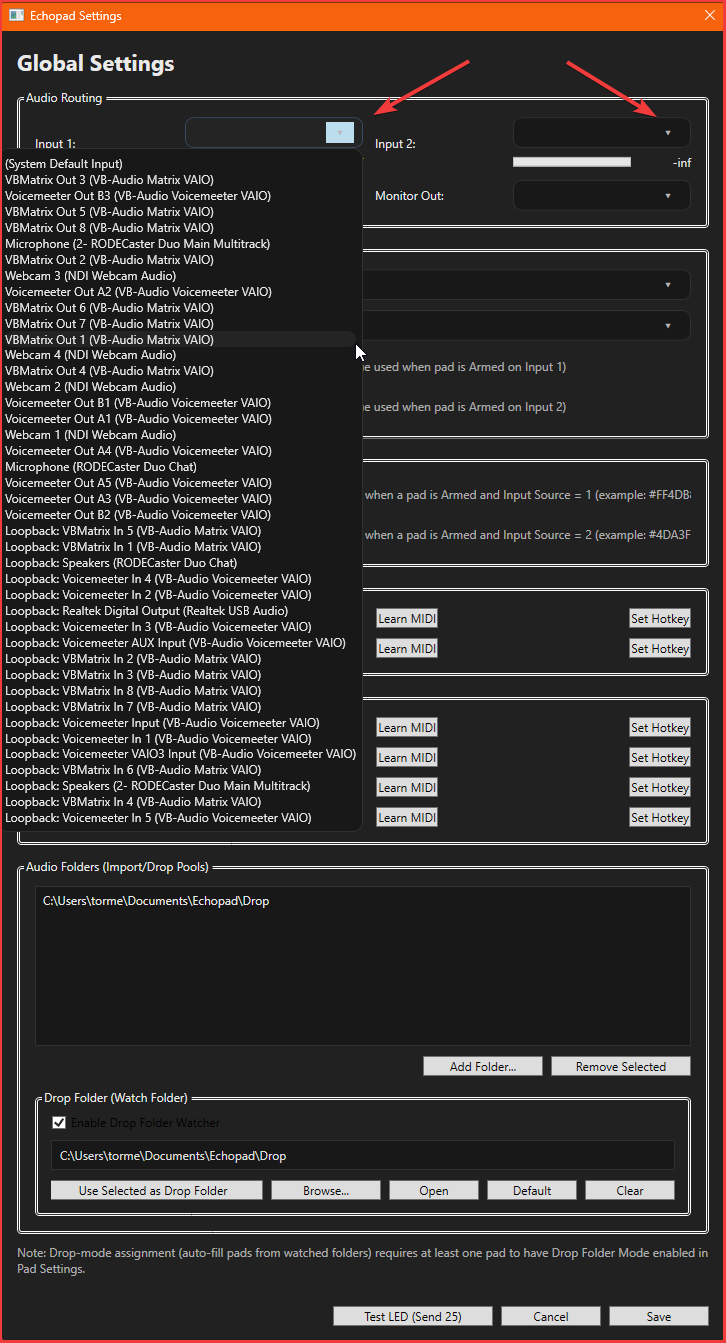
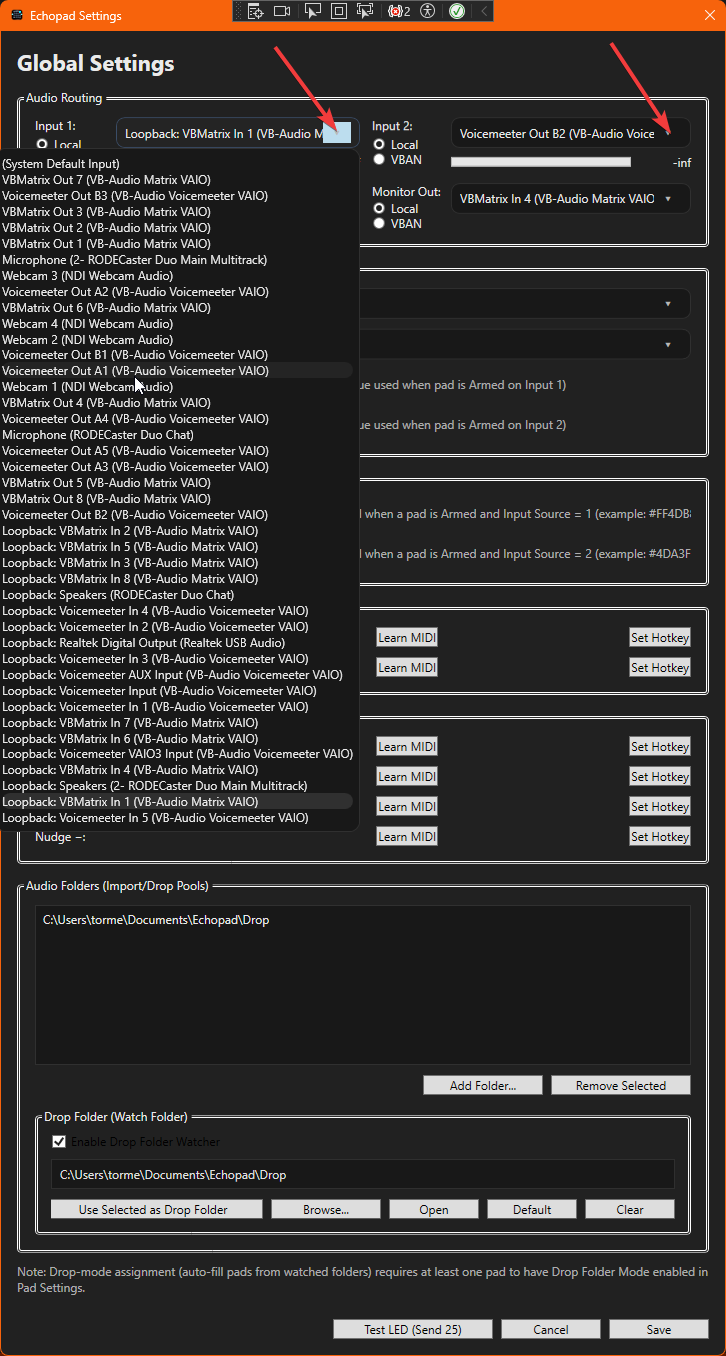
updated readme and setup

diff --git a/docs/SETUP.md b/docs/SETUP.md
@@ -1,6 +1,6 @@
 # 🛠 Echopad – Setup & Usage Guide
 
-This guide covers first-time setup, per-pad configuration, and everyday usage.
+This guide covers first-time setup, per-pad configuration, and everyday usage — including **local audio** and **VBAN (network audio)** routing.
 
 Follow the steps in order.
 
@@ -10,32 +10,157 @@ Follow the steps in order.
 
 Open **Settings → Audio**.
 
-### Audio Inputs
+Echopad supports **per-channel audio routing**, allowing each input, output, and monitor path to be switched independently between:
 
-![Audio input setup](images/setup-audio-input.png)
+- **Local** (WASAPI devices)
+- **VBAN** (UDP network audio)
 
-- **Input 1** – primary live capture source
-- **Input 2** – secondary live capture source
-
-These inputs are used by Echo Mode and per-pad routing.
+This makes it possible to mix and match local and network audio freely.
 
 ---
 
-### Main Output
+## 🔀 Audio Inputs – Local vs VBAN
+
+### Input Audio Mode Switch
+
+![Input audio VBAN switch](images/new-input-audio-vband-switch.png)
+
+Each input (Input 1 and Input 2) has a **mode selector** directly under the input label:
+
+- **Local**  
+  Uses a local WASAPI audio device (microphones, sound cards, virtual drivers, etc.)
+
+- **VBAN**  
+  Receives audio over the network via VBAN (UDP)
+
+Switching modes instantly changes how Echopad captures live audio for Echo Mode.
+
+---
+
+### Audio Inputs (Local Mode)
+
+![Audio input setup](images/setup-audio-input.png)
+
+When **Local** is selected:
+
+- Choose a local audio input device
+- Used by Echo Mode and per-pad capture
+- Supports microphones, interfaces, virtual cables, etc.
+
+---
+
+### Audio Inputs (VBAN Mode)
+
+When **VBAN** is selected, the local device list is replaced with VBAN connection fields:
+
+- **IP Address** – sender IP (or `0.0.0.0` to accept any)
+- **Port** – UDP port
+- **Stream Name** – VBAN stream identifier
+
+This allows Echopad to capture audio sent from:
+- Another PC
+- A mixer
+- OBS / Voicemeeter / other VBAN-capable apps
+
+---
+
+## 🔊 Main Output – Local vs VBAN
+
+### Main Output Audio Mode Switch
+
+![Output audio VBAN switch](images/new-output-audio-vband-switch.png)
+
+The **Main Output** can also be switched between:
+
+- **Local** – normal playback device
+- **VBAN** – network audio transmission
+
+---
+
+### Main Output (Local Mode)
 
 ![Main output setup](images/setup-audio-output.png)
 
 - Select the main playback device
-- This is where pads play during Run Mode
+- Pads play here during Run Mode
 
 ---
 
-### Monitoring Output
+### Main Output (VBAN Mode)
+
+When set to **VBAN**, Echopad sends pad audio over the network.
+
+Configure:
+- **IP Address** – receiving device
+- **Port** – UDP port
+- **Stream Name** – VBAN stream name
+
+This enables:
+- Streaming audio to another machine
+- Feeding a remote mixer
+- Network-based performance setups
+
+---
+
+## 🎧 Monitoring Output – Local vs VBAN
+
+### Monitor Audio Mode Switch
+
+![Monitor audio VBAN switch](images/new-monitor-audio-vband-switch.png)
+
+The **Monitoring Output** (used for previews in Edit Mode) also supports:
+
+- **Local** monitoring
+- **VBAN** monitoring
+
+---
+
+### Monitoring Output (Local Mode)
 
 ![Monitoring output setup](images/setup-audio-monitoring.png)
 
 - Optional preview output
 - Used when previewing pads in Edit Mode
+
+---
+
+### Monitoring Output (VBAN Mode)
+
+In **VBAN** mode, preview audio is sent over the network instead of to a local device.
+
+This is useful for:
+- Remote cue monitoring
+- Headless systems
+- Distributed setups
+
+---
+
+## 🌐 VBAN In / Out / Monitoring Overview
+
+![VBAN in out and monitoring](images/setup-vband-in-out-and-monitor.png)
+
+When VBAN is enabled, each channel shows its own IP, port, and stream fields.
+
+Key points:
+- Inputs receive audio
+- Outputs send audio
+- Monitoring can be independent
+- All paths are configured separately
+
+---
+
+## 🔀 Mixing Local and VBAN (Advanced)
+
+![VBAN mix and match](images/setup-vband-mix-match.png)
+
+Echopad allows **full mix-and-match routing**, for example:
+
+- Capture from **VBAN**, play out **locally**
+- Capture from **local mic**, send to **VBAN**
+- Monitor locally while outputting to VBAN
+- Monitor via VBAN while outputting locally
+
+There are **no restrictions** forcing all channels to use the same mode.
 
 ---
 
@@ -101,6 +226,8 @@ From here you can:
 - Select Input 1 or Input 2
 - Define which input Echo Mode captures from
 
+Input selection respects **Local / VBAN mode** chosen in global settings.
+
 ---
 
 ## 7⃣ Per-Pad Settings – Echo & Drop Folder
@@ -141,17 +268,19 @@ Pads now:
 - Play audio
 - Capture live audio if armed
 - Respond to MIDI and keyboard triggers
+- Route audio according to Local / VBAN settings
 
 ---
 
 ## 🔁 Typical Workflow
 
-1. Configure audio and MIDI
-2. Enter Edit Mode
-3. Configure pads and Echo Mode
-4. Trim audio if needed
-5. Exit Edit Mode
-6. Perform live
+1. Configure audio inputs, outputs, and monitoring (Local or VBAN)
+2. Configure MIDI
+3. Enter Edit Mode
+4. Configure pads and Echo Mode
+5. Trim audio if needed
+6. Exit Edit Mode
+7. Perform live
 
 ---
 
@@ -161,10 +290,16 @@ All configuration is saved automatically to:
 
 echopad.settings.json
 
+
+
 No manual saving is required.
 
 ---
 
 ## ✅ Setup Complete
 
-Echopad is now ready for daily use and live performance.
+Echopad is now ready for:
+- Local performance
+- Networked audio workflows
+- Hybrid VBAN + local setups
+- Live streaming and capture

diff --git a/docs/README.md b/docs/README.md
@@ -2,7 +2,7 @@
 
 Echopad is a real-time audio pad sampler designed for **live performance, streaming and rapid audio interaction**.
 
-It focuses on speed predictability and minimal UI friction - no timelines, no tracks, no DAW-style complexity.
+It focuses on speed, predictability and minimal UI friction — no timelines, no tracks, no DAW-style complexity.
 
 ---
 
@@ -63,7 +63,7 @@ Configuration changes are only possible in Edit Mode.
 
 ## 🎙 Echo Mode (Live Capture)
 
-Echo Mode continuously buffers live audio from an input device.
+Echo Mode continuously buffers live audio from an input source.
 
 When an **armed, empty pad** is triggered:
 - The last buffered audio is written to disk
@@ -75,6 +75,47 @@ This allows:
 - Voice capture
 - Live stream sound effects
 - Reactive sampling
+
+Echo Mode works with both **local audio devices** and **network-based audio sources** (see VBAN below).
+
+---
+
+## 🌐 VBAN Audio Routing (Network Audio)
+
+Echopad supports **VBAN audio streaming**, allowing audio to be routed **over the network** instead of using only local devices.
+
+VBAN can be used on:
+- **Audio Inputs** (VBAN Receive)
+- **Audio Outputs** (VBAN Transmit)
+
+This makes Echopad suitable for:
+- Multi-PC streaming setups
+- Remote audio capture
+- Network-based monitoring
+- Routing audio between applications or machines
+
+### VBAN Inputs
+An input can be set to **VBAN** instead of Local.
+
+In this mode:
+- Echopad listens on a UDP port
+- Receives audio from a VBAN sender
+- Feeds the stream into Echo Mode and live meters
+
+### VBAN Outputs
+An output can be set to **VBAN** instead of Local.
+
+In this mode:
+- Pad playback is streamed as VBAN audio
+- Audio is sent in real time over UDP
+- Sample rate and channel count follow the source material
+
+Local and VBAN routing can be mixed freely:
+- Local input → VBAN output
+- VBAN input → Local output
+- VBAN input → VBAN output
+
+Switching modes is handled live and safely.
 
 ---
 
@@ -104,6 +145,9 @@ Each pad can reflect:
 - Active state
 - Playing state
 - Cleared state
+- Armed (input-specific LED values)
+
+This allows tight integration with MIDI controllers.
 
 ---
 
@@ -132,6 +176,7 @@ Key properties:
 ## 🚧 Status
 
 - Core functionality stable
+- VBAN routing fully implemented and tested
 - Actively developed
 - Installer planned (Inno Setup)
 
